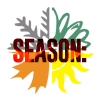
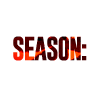
changed heading images, changed bit of CSS

diff --git a/public/stylesheets/stylesheet.css b/public/stylesheets/stylesheet.css
@@ -121,6 +121,18 @@ img {
     padding-top: 30px;
 }
 
+.weatherImg {
+  padding-left: 25px;
+}
+
+.weatherHeading {
+  padding-top: 5px;
+}
+
+.temperatureHeading {
+  padding-top: 15px;
+}
+
 time.icon {
     font-size: 1em; /* change icon size */
     display: block;
